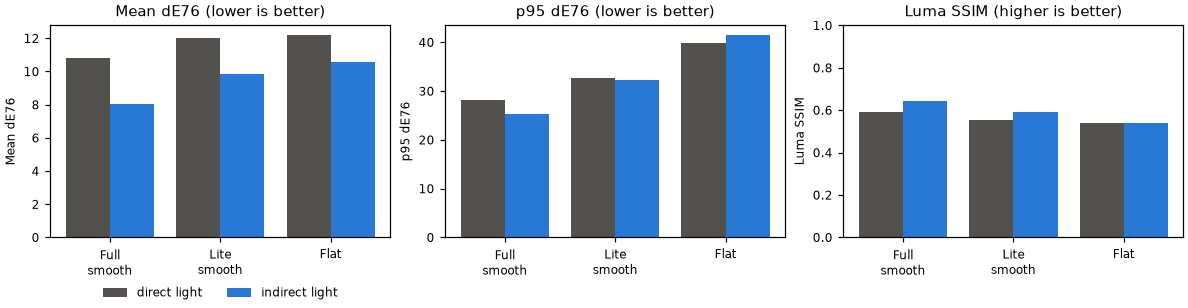
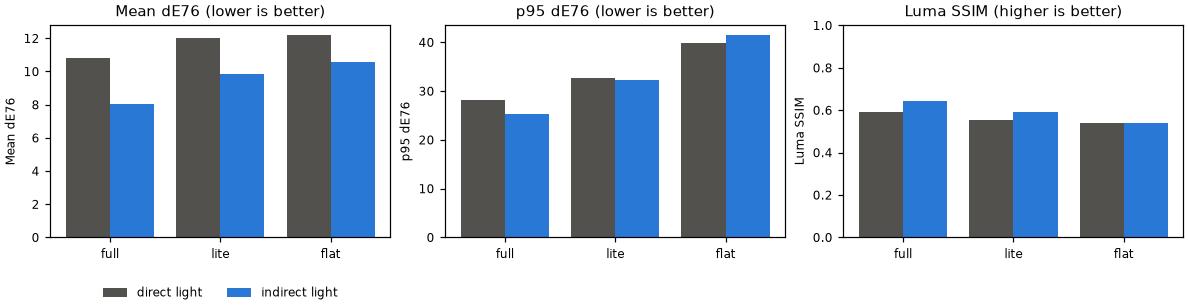
Bake-Quality: the ranked tables and charts from a Doc Images run on this branch (autana-d01s)

diff --git a/launcher/tools/render/bake_charts.py b/launcher/tools/render/bake_charts.py
@@ -61,7 +61,7 @@ def legend_below(axis, columns):
 
 def fidelity_chart(table, path):
     variants = list(table)
-    fig, (error_axis, ssim_axis) = subplots(1, 2, (PANEL[0] * 2, PANEL[1]), width_ratios=(2, 1))
+    fig, (error_axis, ssim_axis) = subplots(1, 2, (PANEL[0] * 2.6, PANEL[1]), width_ratios=(3, 2))
     grouped_bars(error_axis, variants, DELTA_E, {name: [number(table[v][name]) for v in variants] for name in DELTA_E},
                  SLOTS, "Colour error against the reference (lower is better)", "dE76")
     legend_below(error_axis, len(DELTA_E))

diff --git a/docs/render/Bake-Quality.md b/docs/render/Bake-Quality.md
@@ -12,7 +12,15 @@ Every row plays the same stretch of the flythrough, so the rows compare. The
 rows are ranked best first: fitted variants, then the rest, each by mean ΔE in
 [Fidelity against the source](#fidelity-against-the-source).
 
-<!-- generated: sponza-variants -->
+<!-- generated: sponza-variants sha256=4bd8db81d1a49a8cdcaabe26582dcb281dba50a82e8424b5662b0630b83ad5f4 -->
+| Flythrough | Variant | Mesh entry | Fitted |
+|---|---|---|---|
+| ![flat fitted flythrough](../images/render/sponza-flat-fitted.gif) | **flat fitted** | `sponza.atrium_flat_fitted` | yes |
+| ![fitted full flythrough](../images/render/sponza-fitted-full.gif) | **fitted full** | `sponza.atrium_fitted_full` | yes |
+| ![fitted flythrough](../images/render/sponza-fitted.gif) | **fitted** | `sponza.atrium_fitted` | yes |
+| ![full flythrough](../images/render/sponza-full.gif) | **full** | `sponza.atrium` | no |
+| ![lite flythrough](../images/render/sponza-lite.gif) | **lite** | `sponza.atrium_lite` | no |
+| ![flat flythrough](../images/render/sponza-flat.gif) | **flat** | `sponza.atrium_flat` | no |
 <!-- /generated: sponza-variants -->
 
 | Variant | What it is |
@@ -59,12 +67,15 @@ triangles and one colour per face both cost most at edges.
 <details>
 <summary>Fidelity scores</summary>
 
-<!-- generated: sponza-fidelity sha256=5fe775feba523dbf98b7b54d6bcb48e2c6bcfab2be824c32b8b866d6a185dc6e -->
+<!-- generated: sponza-fidelity sha256=83292cd3516c4161eaff2e369862eae26c1b9b971ac1532636ab29a45effa465 -->
 | Variant | Mean dE76 | p95 dE76 | Luma SSIM | Edge dE76 | Interior dE76 |
 |---|---:|---:|---:|---:|---:|
-| Full smooth | 9.520 | 28.185 | 0.5890 | 16.469 | 7.951 |
-| Lite smooth | 11.507 | 34.231 | 0.5270 | 19.777 | 9.682 |
-| Flat, committed | 12.859 | 45.674 | 0.4398 | 22.576 | 10.661 |
+| flat fitted | 5.333 | 15.098 | 0.7519 | 9.823 | 4.311 |
+| fitted full | 5.351 | 14.143 | 0.7672 | 9.335 | 4.453 |
+| fitted | 6.115 | 17.343 | 0.7140 | 11.088 | 5.003 |
+| full | 9.520 | 28.185 | 0.5890 | 16.469 | 7.951 |
+| lite | 11.507 | 34.231 | 0.5270 | 19.777 | 9.682 |
+| flat | 12.859 | 45.674 | 0.4398 | 22.576 | 10.661 |
 <!-- /generated: sponza-fidelity -->
 
 </details>
@@ -239,15 +250,15 @@ scene without its `[indirect]` table and occlusion.
 <details>
 <summary>Indirect light scores</summary>
 
-<!-- generated: sponza-indirect sha256=e4949e99efbce1bab1ea6a991aa4c5ad55673965113a33c50a36ed94ff9bf5c6 -->
+<!-- generated: sponza-indirect sha256=20f0af999ae2af7ed708a008d19f036241efb7dff64681aeb7f1c701c6c71cce -->
 | Variant | Mean dE76 | p95 dE76 | Luma SSIM | Edge dE76 | Interior dE76 |
 |---|---:|---:|---:|---:|---:|
-| Full smooth, indirect light | 8.069 | 25.348 | 0.6454 | 16.771 | 6.419 |
-| Lite smooth, indirect light | 9.844 | 32.285 | 0.5915 | 20.095 | 7.920 |
-| Flat, indirect light | 10.561 | 41.396 | 0.5393 | 22.112 | 8.352 |
-| Full smooth, direct light | 10.794 | 28.118 | 0.5919 | 18.395 | 9.343 |
-| Lite smooth, direct light | 11.996 | 32.712 | 0.5521 | 21.325 | 10.237 |
-| Flat, direct light | 12.171 | 39.817 | 0.5377 | 22.945 | 10.107 |
+| full, direct light | 10.794 | 28.118 | 0.5919 | 18.395 | 9.343 |
+| full, indirect light | 8.069 | 25.348 | 0.6454 | 16.771 | 6.419 |
+| lite, direct light | 11.996 | 32.712 | 0.5521 | 21.325 | 10.237 |
+| lite, indirect light | 9.844 | 32.285 | 0.5915 | 20.095 | 7.920 |
+| flat, direct light | 12.171 | 39.817 | 0.5377 | 22.945 | 10.107 |
+| flat, indirect light | 10.561 | 41.396 | 0.5393 | 22.112 | 8.352 |
 <!-- /generated: sponza-indirect -->
 
 </details>
